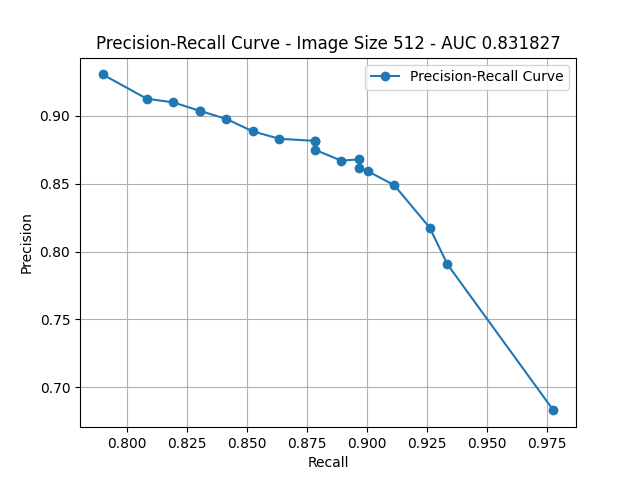
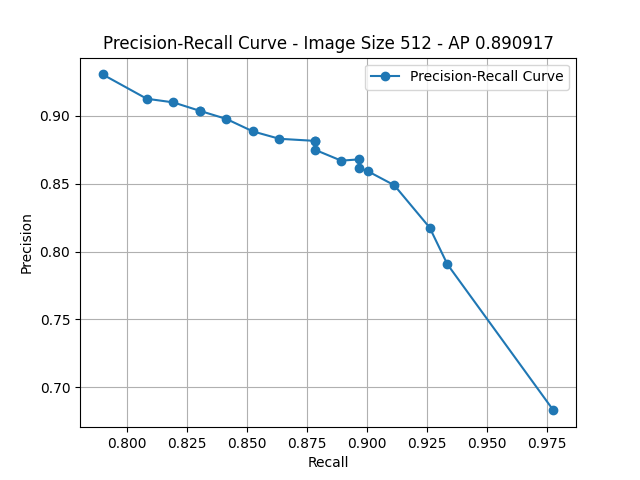
feat: replace AUC with AP calculation

Changed region(s): [[0.1562, 0.0625, 0.875, 0.125]]

diff --git a/task1/main.py b/task1/main.py
@@ -1,6 +1,5 @@
 import numpy as np
 import matplotlib.pyplot as plt
-from sklearn import metrics
 import os
 
 def read_file(file_path):
@@ -25,18 +24,34 @@ def calculate_metrics(data):
         results.append((conf_thresh, recall, precision, f1_score))
     return results
 
-def calculate_auc(results):
-    # Extract recalls and precisions for AUC calculation
-    recalls = [r[0] for r in results]
-    precisions = [r[1] for r in results]
-    return metrics.auc(recalls, precisions)
+def calculate_ap(results):
+    recalls = np.array([r[1] for r in results])
+    precisions = np.array([r[2] for r in results])
+
+    sorted_indices = np.argsort(recalls)
+    recalls = recalls[sorted_indices]
+    precisions = precisions[sorted_indices]
+
+    ap = 0.0
+    prev_recall = 0.0
+
+    # AP formula: Σₙ (Rₙ - Rₙ₋₁) * Pₙ
+    # Pₙ = precisions[i]
+    # Rₙ = recalls[i]
+    # Rₙ₋₁ = prev_recall
+    for i in range(len(recalls)):
+        delta_recall = recalls[i] - prev_recall
+        ap += delta_recall * precisions[i]
+        prev_recall = recalls[i]
+
+    return ap
 
 def generate_pr_curve(results, image_size, auc):
     recalls = [r[1] for r in results]
     precisions = [r[2] for r in results]
     plt.figure()
     plt.plot(recalls, precisions, marker='o', label='Precision-Recall Curve')
-    plt.title(f'Precision-Recall Curve - Image Size {image_size} - AUC {auc:4f}')
+    plt.title(f'Precision-Recall Curve - Image Size {image_size} - AP {auc:4f}')
     plt.xlabel('Recall')
     plt.ylabel('Precision')
     plt.grid(True)
@@ -56,26 +71,27 @@ def main():
         file_path = f'data/{size}_yolov4_5000_cell_data.txt'
         data = read_file(file_path)
         results = calculate_metrics(data)
-        auc = calculate_auc(results)
-        generate_pr_curve(results, size, auc)
+        ap = calculate_ap(results)
+        generate_pr_curve(results, size, ap)
 
         # Find the best threshold based on F1-Score
-        best_threshold = max(results, key=lambda x: x[3])  # Max F1-Score
+        best_threshold = max(results, key=lambda x: x[3])
 
         # Store results
         final_results[size] = {
-            'auc': auc,
+            'ap': ap,
             'best_threshold': best_threshold
         }
 
-    best_size = max(final_results, key=lambda size: final_results[size]['auc'])
+    # Max AP-Score
+    best_size = max(final_results, key=lambda size: final_results[size]['ap'])
     best_info = final_results[best_size]
 
     # Save the best configuration to a text file
     with open('results/best_configuration.txt', 'w') as file:
         file.write("================ \n")
         file.write(f"Best Image Size: {best_size}\n")
-        file.write(f"AUC: {best_info['auc']:.4f}\n")
+        file.write(f"AP: {best_info['ap']:.4f}\n")
         file.write(f"Best Threshold: {best_info['best_threshold'][0]}\n")
         file.write(f"Recall: {best_info['best_threshold'][1]:.4f}\n")
         file.write(f"Precision: {best_info['best_threshold'][2]:.4f}\n")
@@ -85,7 +101,7 @@ def main():
         file.write("\n")
         for size, info in final_results.items():
             file.write(f"Image Size: {size}\n")
-            file.write(f"AUC: {info['auc']:.4f}\n")
+            file.write(f"AP: {info['ap']:.4f}\n")
             file.write(f"Best Threshold: {info['best_threshold'][0]}\n")
             file.write(f"Recall: {info['best_threshold'][1]:.4f}\n")
             file.write(f"Precision: {info['best_threshold'][2]:.4f}\n")

diff --git a/task1/README.md b/task1/README.md
@@ -1,36 +1,40 @@
 ## Overview
-This script evaluates the performance of an object detection model (Yolov4) by analyzing precision, recall, and F1-score for different image sizes. It calculates the **AUC (Area Under the Curve)** of the **Precision-Recall curve** and determines the best confidence threshold based on the highest F1-score and best image size based on the auc.
+
+This script evaluates the performance of an object detection model (Yolov4) by analyzing precision, recall, and F1-score for different image sizes. It calculates the **AP (Average Precision)** of the **Precision-Recall curve** and determines the best confidence threshold based on the highest F1-score and best image size based on the AP.
 
 ## How It Works
+
 1. **Reads** detection results from text files for different image sizes.
 2. **Computes** precision, recall, and F1-score for various confidence thresholds.
-3. **Calculates** the AUC of the Precision-Recall curve.
+3. **Calculates** the AP of the Precision-Recall curve.
 4. **Generates** Precision-Recall curves and saves them as images.
 5. **Identifies** the best confidence threshold based on the highest F1-score.
-5. **Saves** the best image size configuration in a text file.
-
+6. **Saves** the best image size configuration in a text file.
 
 ## Justification for Selecting the Best Image Size
-The best image size is chosen based on the **highest AUC value**. AUC represents the overall trade-off between precision and recall, making it a reliable metric for model performance evaluation. Additionally, the best confidence threshold is selected based on the **highest F1-score**, ensuring a balance between precision and recall.
 
-## Run Remote 
+The best image size is chosen based on the **highest AP value**. Additionally, the best confidence threshold is selected based on the **highest F1-score**, ensuring a balance between precision and recall.
+
+## Run Remote
+
 - https://codesandbox.io/p/devbox/numpy-matplotlib-3dvmcn
 
 ## Run Local - Requirements
+
 - Python 3.x
 - NumPy
 - Matplotlib
 - Scikit-learn
 
-
 ## Execution
+
 Run the script using:
+
 ```bash
 python main.py
 ```
 
 ## Output
+
 - **Precision-Recall curve images** saved in `results/`.
 - **Best configuration** saved in `results/best_configuration.txt` with the best image size and threshold information.
-
-
